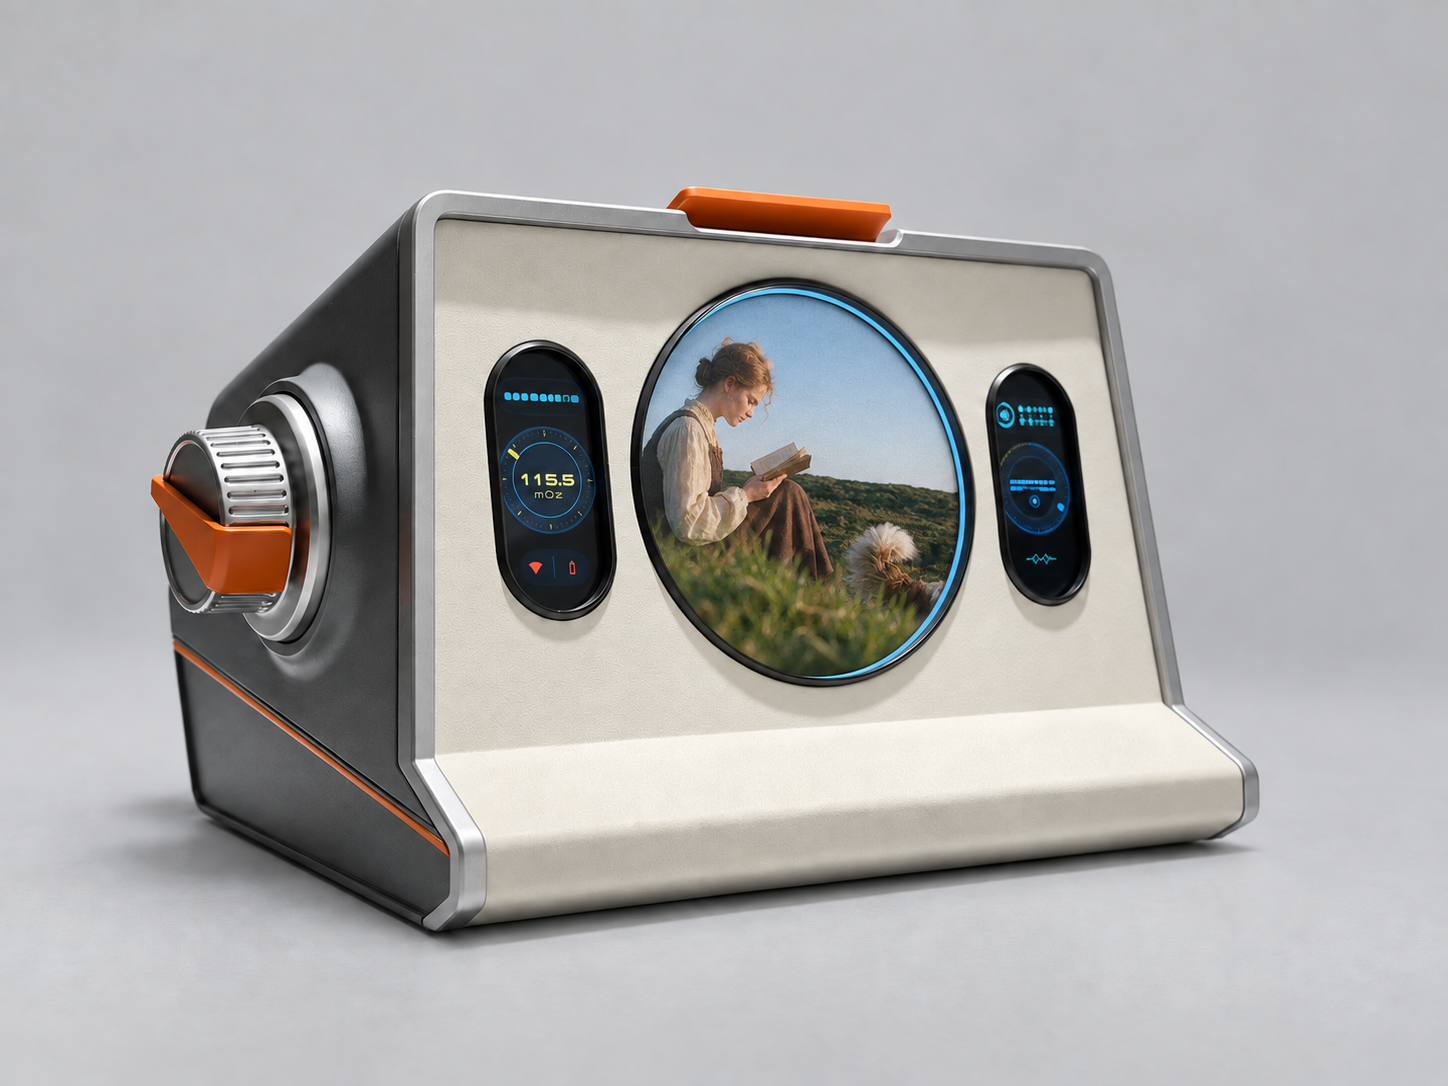
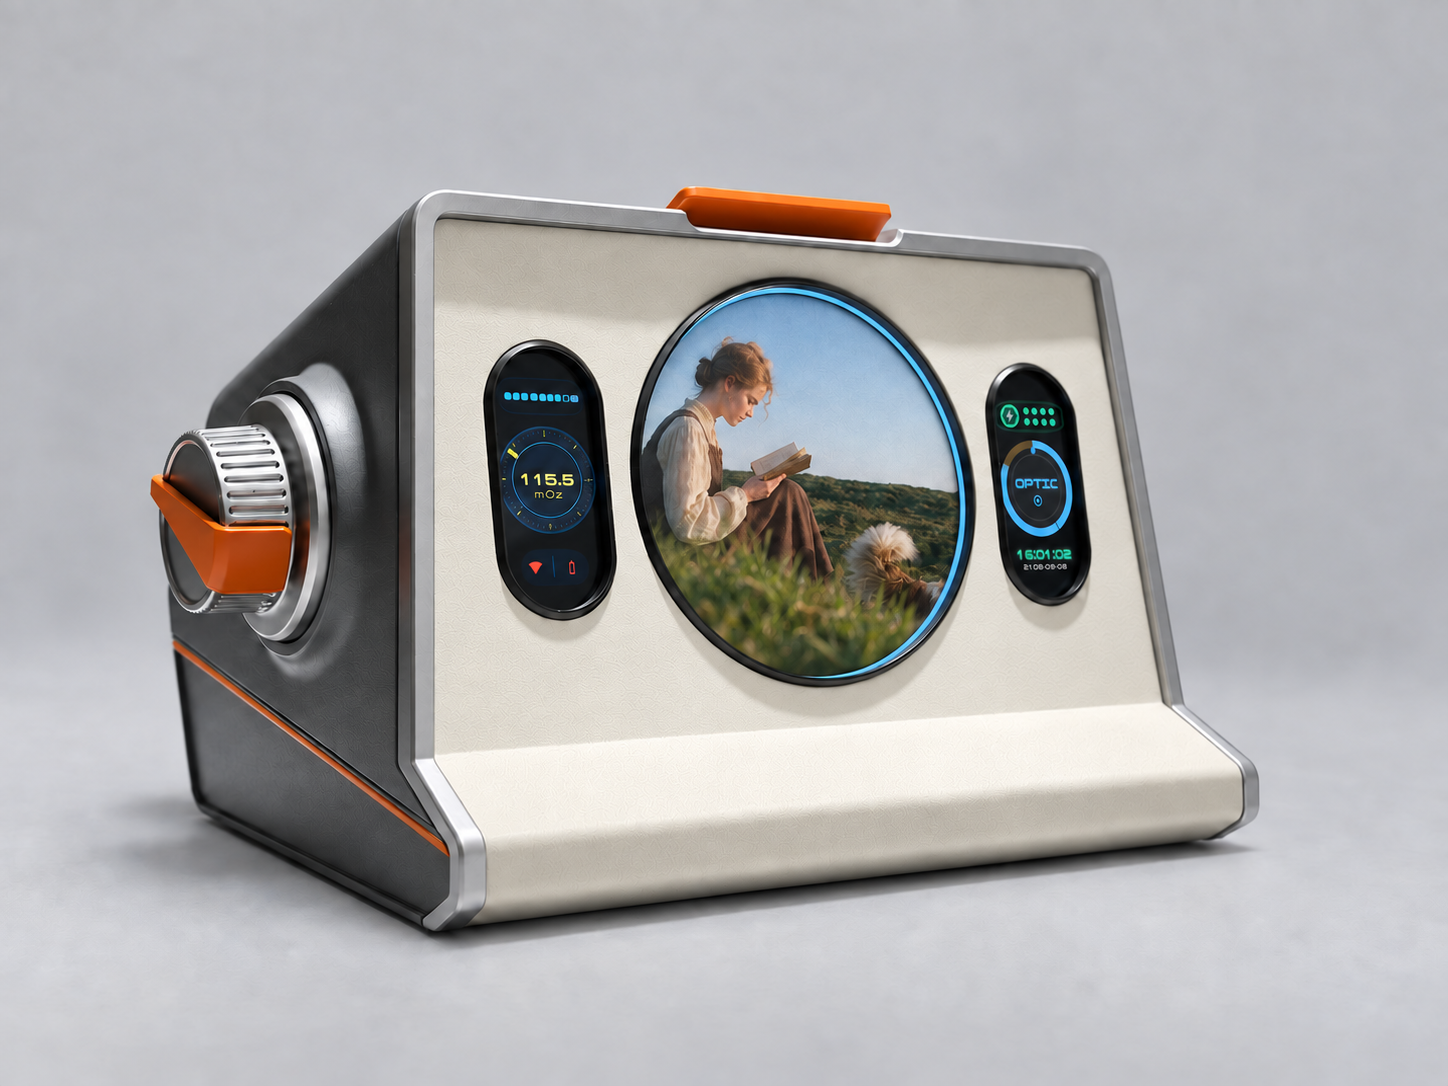
docs: correct right display artwork across device mockups

diff --git a/docs/device-reference/right-screen-review.md b/docs/device-reference/right-screen-review.md
@@ -1,0 +1,62 @@
+# 右侧屏幕修正记录
+
+2026-09-09：用户提供清晰的右屏界面，要求复查历史有效图片并修正模糊右屏。本次检查 17 张历史生成图，修正其中 7 张可见右侧亮屏；9 张黑屏或背视图不需要点亮右屏，另 1 张明显变形的堆叠图继续弃用。
+
+## 右屏母版
+
+下图为用户提供的原始 UI，未经修改。它覆盖旧产品效果图中模糊的右屏图形；设备机身仍以三张产品原图为准。
+
+![右屏 UI 母版](ui-reference/right-screen-optic-master.png)
+
+- 顶部：绿色电量胶囊、闪电图标，右侧两行四列共 8 个绿色圆点。
+- 中部：蓝色粗圆环、左上短棕色弧段、深灰内盘、明确的 `OPTIC` 字样与小同心圆。
+- 底部：绿色 `16:01:02`，灰色 `2108-09-08`；保留两行层级。
+- 保持原有胶囊屏开孔、黑底、边框和透视，不使用模糊波形代替文字。
+
+## 逐图结果
+
+| 历史图片 | 处理 |
+| --- | --- |
+| 基础 01 正面中性柔光 | 三屏关闭，保留 |
+| 基础 02 左前柔光 | 三屏关闭，保留 |
+| 基础 03 右前柔光 | 三屏关闭，保留 |
+| 基础 05 后侧 | 右屏不可见，保留 |
+| 基础 06 左前暖光 | 三屏关闭，保留 |
+| 基础 v2 顶部修正版 | 三屏关闭，保留 |
+| 仓库 01 日间工作台 | 三屏关闭，保留 |
+| 仓库 02 收货区 | 三屏关闭，保留 |
+| 仓库 03 窗边雪花屏 | 右屏修正 |
+| 仓库 04 傍晚雪花屏 | 右屏修正 |
+| 仓库 05 旧帆布下的设备 | 可见右屏关闭；仅作场景参考 |
+| 仓库 06 防尘布藏放 | 仅修正下层左侧亮机的右屏，其他设备继续黑屏；仅作场景参考 |
+| 仓库 07 搬运毯堆叠 | 中间设备明显变形，继续弃用；不通过本次 UI 修正恢复有效状态 |
+| 世界 01 牧羊女晨光 | 右屏修正 |
+| 世界 02 机器人图书馆 | 右屏修正 |
+| 世界 03 精灵晨眠 | 右屏修正 |
+| 世界 04 草地星夜 | 右屏修正 |
+
+此前被排除的两张顶部错误尝试不属于有效参考库，不恢复使用。三张用户产品原图保持原始文件不变。
+
+## 修正版
+
+四张世界版本已在[主素材目录](README.md)中更新。下列是本次一并修正的仓库版本：
+
+### 窗边仓库
+
+![窗边仓库右屏修正版](scene-revisions/05-warehouse-window-optic-v2.png)
+
+### 傍晚仓库
+
+![傍晚仓库右屏修正版](scene-revisions/06-warehouse-evening-optic-v2.png)
+
+### 防尘布藏放
+
+![防尘布藏放右屏修正版](scene-revisions/07-hidden-dust-sheet-optic-v2.png)
+
+## 核验与使用
+
+本次使用内置 image_gen 按右屏母版局部编辑。已逐张目视核对右屏图形层级、OPTIC 字样、电量点阵、日期时间两行，以及机身外轮廓和原有画面内容。输出为 1448×1086 的完整场景图，远景中的小字仍受实际像素数量限制；需要 UI 特写时直接使用母版，而非放大整张远景图。
+
+生成式编辑可能微调材质纹理和画面细节，不能视为屏幕以外像素完全锁定的合成。正式视频中采用 UI 母版透视贴图和独立反射层可进一步保证一致性。
+
+完整编辑提示词、版本与校验值见 [manifest.json](manifest.json)。旧版右屏图已由本地历史归档保留，当前公开文件指向修正版。

diff --git a/docs/device-reference/README.md b/docs/device-reference/README.md
@@ -1,12 +1,14 @@
 # 设备造型与平行世界屏幕素材
 
-面向开发者、视觉设计师与视频制作的参考库。包含 **3 张用户原图、6 张 AI 辅助造型图、4 张世界屏幕效果图**。生成时间：2026-09-09。
+面向开发者、视觉设计师与视频制作的参考库。包含 **3 张产品原图、6 张辅助造型图、4 张世界屏幕效果图、3 张仓库右屏修正版及 1 张右屏 UI 母版**。生成时间：2026-09-09。
 
 > 结构以原图为准。AI 辅助图用于视角、光照和视觉沟通，不是 CAD、工程尺寸图或准确的 UI 规范。此前顶部错误和多机堆叠中的变形图不纳入本库。
 
+[本次右屏逐图审核与仓库修正版](right-screen-review.md)
+
 ## 使用规范
 
-1. 最新款原图 01 决定机身比例、材质和正面布局；原图 02、03 补充另一侧、背面和顶部。
+1. 最新款原图 01 决定机身比例、材质和正面布局；原图 02、03 补充另一侧、背面和顶部。右屏图形改以 `ui-reference/right-screen-optic-master.png` 为准，原始产品图中模糊的右屏不再作为 UI 依据。
 2. 机身为向后收低的楔形，保持前面板斜度、银框和宽前下沿；顶部橙色件为薄片结构，不能改成方块或把顶部拉平。
 3. 固定中央圆屏、两侧竖向胶囊屏、银色齿纹旋钮及橙色横件的位置与比例。
 4. 每次生成都附原图；辅助图只提供相近机位和光照。不要反复以新生成图代替原图作为唯一参照。
@@ -58,7 +60,7 @@
 
 ## Worldflow 世界屏幕版本
 
-固定左前侧柔光底图，左右屏幕均点亮。中屏使用已有 Worldflow 定帧作为图像输入，由 AI 适配圆屏构图，并非逐像素贴图。细小仪表文字仅作示意；夜景版圆屏边缘亮度与其他版本不同，统一 UI 和边缘光应在后期完成。
+固定左前侧柔光底图，左右屏幕均点亮。中屏使用已有 Worldflow 定帧作为图像输入，由 AI 适配圆屏构图，并非逐像素贴图。四张右屏现已按用户提供的 UI 母版修正为绿色电量指示、OPTIC 圆环和日期时间。右屏界面以新母版为准，左屏仍沿用旧效果示意。夜景版中屏边缘亮度与其他版本不同。
 
 ### 牧羊女 · 晨光阅读
 
